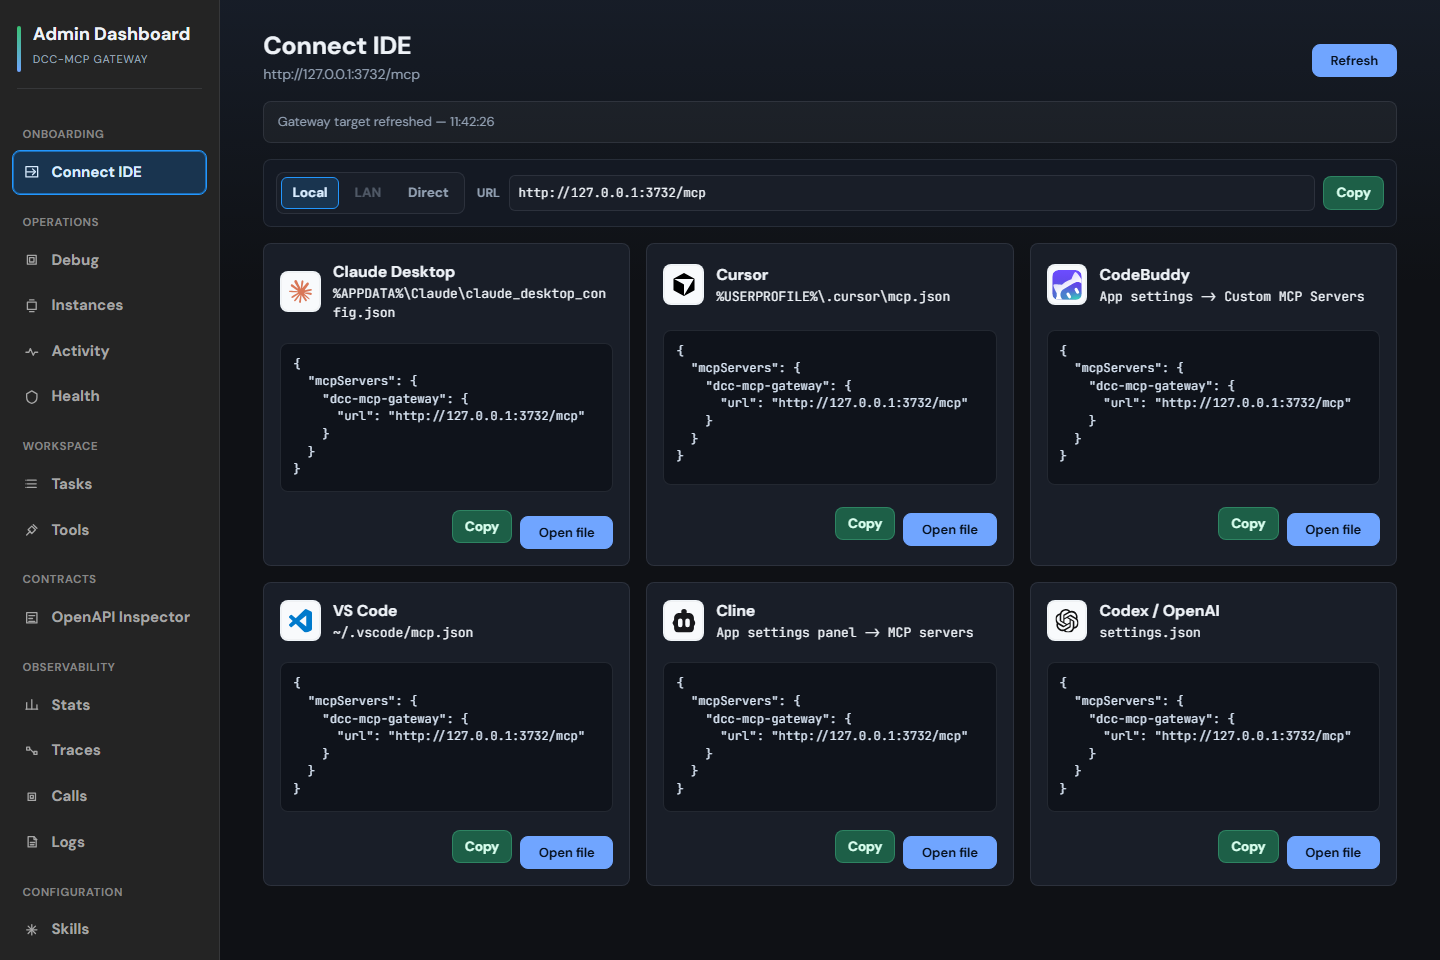
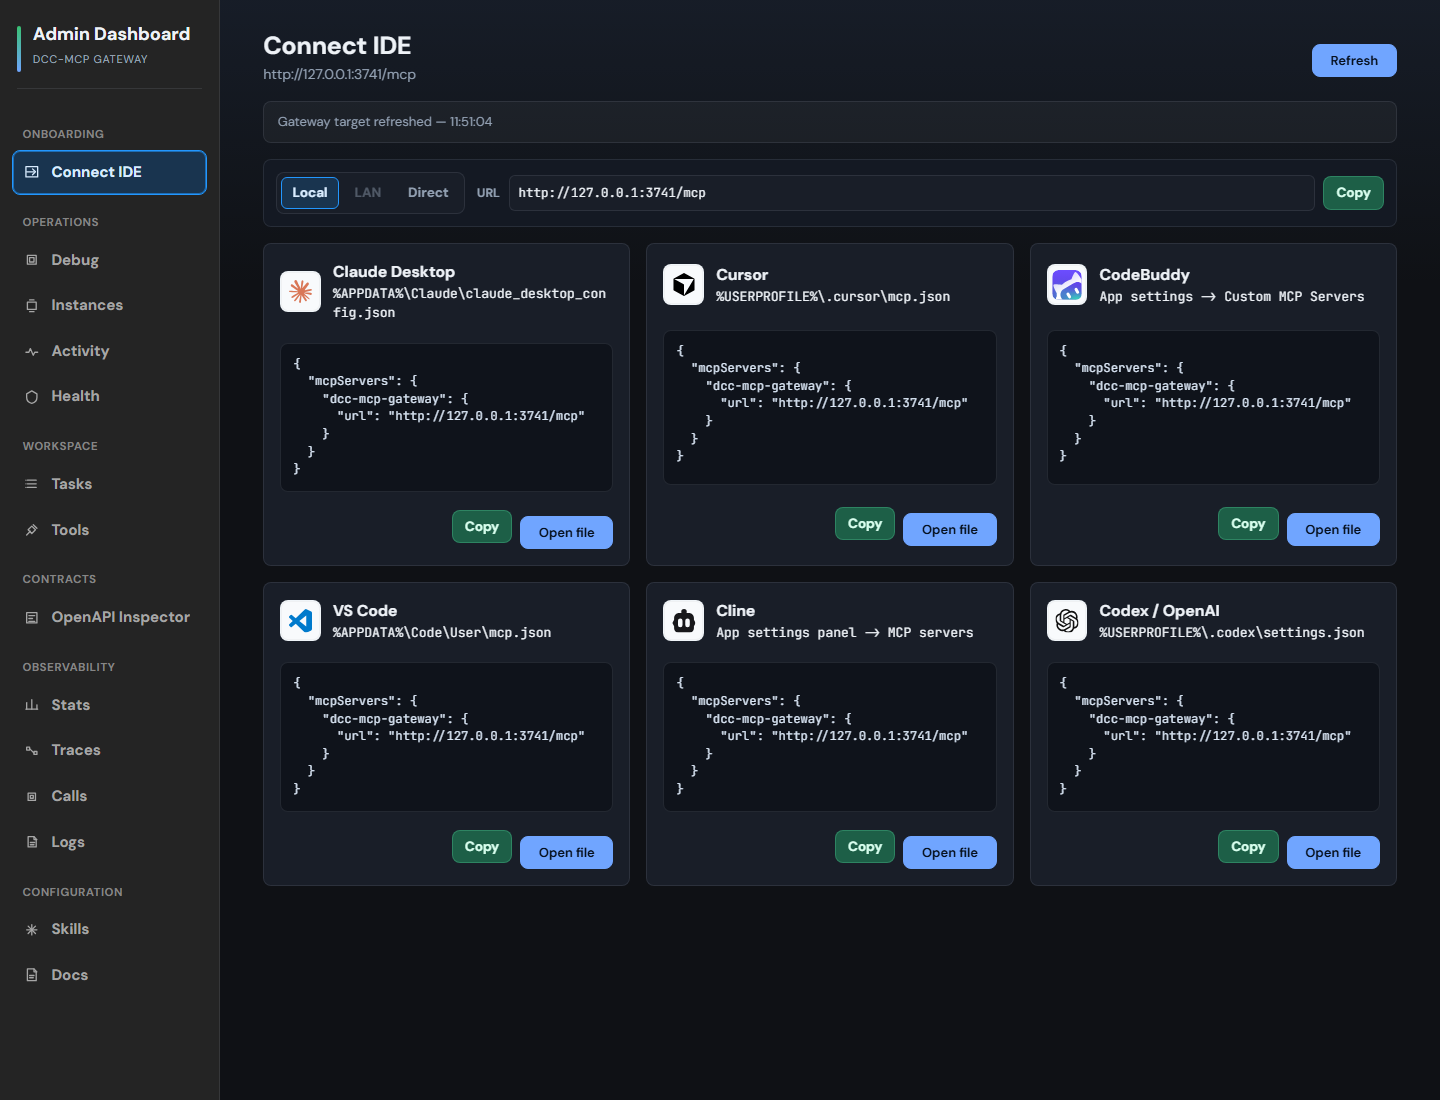
fix: show platform-specific ide config paths

diff --git a/admin-ui/src/App.tsx b/admin-ui/src/App.tsx
@@ -372,11 +372,12 @@ type SkillDetailPayload = {
 };
 
 type SetupUrlMode = 'local' | 'lan' | 'direct';
+type ClientPlatform = 'windows' | 'macos' | 'linux';
 
 type IdeTarget = {
   id: string;
   label: string;
-  configPath: string;
+  configPath: string | Record<ClientPlatform, string>;
   icon: string;
   build: (url: string) => unknown;
 };
@@ -559,14 +560,22 @@ const IDE_TARGETS: IdeTarget[] = [
   {
     id: 'claude',
     label: 'Claude Desktop',
-    configPath: '%APPDATA%\\Claude\\claude_desktop_config.json',
+    configPath: {
+      windows: '%APPDATA%\\Claude\\claude_desktop_config.json',
+      macos: '~/Library/Application Support/Claude/claude_desktop_config.json',
+      linux: '~/.config/Claude/claude_desktop_config.json',
+    },
     icon: claudeIcon,
     build: buildMcpServersConfig,
   },
   {
     id: 'cursor',
     label: 'Cursor',
-    configPath: '%USERPROFILE%\\.cursor\\mcp.json',
+    configPath: {
+      windows: '%USERPROFILE%\\.cursor\\mcp.json',
+      macos: '~/.cursor/mcp.json',
+      linux: '~/.cursor/mcp.json',
+    },
     icon: cursorIcon,
     build: buildMcpServersConfig,
   },
@@ -580,7 +589,11 @@ const IDE_TARGETS: IdeTarget[] = [
   {
     id: 'vscode',
     label: 'VS Code',
-    configPath: '~/.vscode/mcp.json',
+    configPath: {
+      windows: '%APPDATA%\\Code\\User\\mcp.json',
+      macos: '~/Library/Application Support/Code/User/mcp.json',
+      linux: '~/.config/Code/User/mcp.json',
+    },
     icon: vscodeIcon,
     build: buildMcpServersConfig,
   },
@@ -594,7 +607,11 @@ const IDE_TARGETS: IdeTarget[] = [
   {
     id: 'codex',
     label: 'Codex / OpenAI',
-    configPath: 'settings.json',
+    configPath: {
+      windows: '%USERPROFILE%\\.codex\\settings.json',
+      macos: '~/.codex/settings.json',
+      linux: '~/.codex/settings.json',
+    },
     icon: openaiIcon,
     build: buildMcpServersConfig,
   },
@@ -777,6 +794,36 @@ function lanGatewayMcpUrl(): string | null {
 
 function workerSetupLabel(worker: WorkerRow): string {
   return `${worker.display_name || worker.dcc_type} (${worker.instance_id.slice(0, 8)})`;
+}
+
+function detectClientPlatform(): ClientPlatform {
+  const nav = navigator as Navigator & { userAgentData?: { platform?: string } };
+  const primaryPlatform = `${nav.userAgentData?.platform ?? navigator.platform ?? ''}`.toLowerCase();
+  if (primaryPlatform.includes('win')) {
+    return 'windows';
+  }
+  if (primaryPlatform.includes('mac')) {
+    return 'macos';
+  }
+  if (primaryPlatform.includes('linux') || primaryPlatform.includes('x11')) {
+    return 'linux';
+  }
+
+  const userAgent = `${navigator.userAgent ?? ''}`.toLowerCase();
+  if (userAgent.includes('win')) {
+    return 'windows';
+  }
+  if (userAgent.includes('mac')) {
+    return 'macos';
+  }
+  return 'linux';
+}
+
+function configPathForTarget(target: IdeTarget, platform: ClientPlatform): string {
+  if (typeof target.configPath === 'string') {
+    return target.configPath;
+  }
+  return target.configPath[platform] ?? target.configPath.linux;
 }
 
 function ideConfigText(target: IdeTarget, url: string): string {
@@ -1841,6 +1888,7 @@ function App() {
   const [workers, setWorkers] = useState<WorkerRow[]>([]);
   const [workerSummary, setWorkerSummary] = useState<WorkerSummary>({ live: 0, stale: 0, unhealthy: 0 });
   const [setupUrlMode, setSetupUrlMode] = useState<SetupUrlMode>('local');
+  const [clientPlatform] = useState<ClientPlatform>(() => detectClientPlatform());
   const [directInstanceId, setDirectInstanceId] = useState<string>('');
   const [logs, setLogs] = useState<LogRow[]>([]);
   const [skillPaths, setSkillPaths] = useState<SkillPathRow[]>([]);
@@ -2257,15 +2305,15 @@ function App() {
     }
   }, []);
 
-  const openConfigLocation = useCallback((target: IdeTarget) => {
-    const href = configPathFileUrl(target.configPath);
+  const openConfigLocation = useCallback((target: IdeTarget, configPath: string) => {
+    const href = configPathFileUrl(configPath);
     if (href) {
       window.open(href, '_blank', 'noopener,noreferrer');
       setCopiedNotice(`Opened ${target.label} config path`);
       window.setTimeout(() => setCopiedNotice(''), 1800);
       return;
     }
-    void copyText(target.configPath, `${target.label} config path`);
+    void copyText(configPath, `${target.label} config path`);
   }, [copyText]);
 
   const copyIssueReport = useCallback(async (requestId: string) => {
@@ -2817,13 +2865,14 @@ function App() {
             <div className="ide-grid">
               {IDE_TARGETS.map((target) => {
                 const config = ideConfigText(target, setupMcpUrl);
+                const configPath = configPathForTarget(target, clientPlatform);
                 return (
                   <article key={target.id} className="ide-card">
                     <div className="ide-card-head">
                       <IdeIcon target={target} />
                       <div>
                         <h3>{target.label}</h3>
-                        <p className="mono-path">{target.configPath}</p>
+                        <p className="mono-path">{configPath}</p>
                       </div>
                     </div>
                     <pre className="ide-config-preview">{config}</pre>
@@ -2831,7 +2880,7 @@ function App() {
                       <button className="copy-btn" type="button" onClick={() => copyText(config, `${target.label} config`)}>
                         Copy
                       </button>
-                      <button className="refresh-btn" type="button" onClick={() => openConfigLocation(target)}>
+                      <button className="refresh-btn" type="button" onClick={() => openConfigLocation(target, configPath)}>
                         Open file
                       </button>
                     </div>

diff --git a/admin-ui/tests/admin.spec.ts b/admin-ui/tests/admin.spec.ts
@@ -349,6 +349,28 @@ test.describe('Admin Page', () => {
     await expect(page.locator('.health-panel')).toContainText('0.17.7');
   });
 
+  test('shows platform-specific IDE config paths', async ({ page }) => {
+    await page.addInitScript(() => {
+      Object.defineProperty(navigator, 'userAgentData', {
+        configurable: true,
+        get: () => ({ platform: 'macOS' }),
+      });
+      Object.defineProperty(navigator, 'platform', {
+        configurable: true,
+        get: () => 'MacIntel',
+      });
+    });
+
+    await page.goto('/admin/');
+
+    const setup = page.locator('.setup-panel');
+    await expect(setup).toContainText('~/Library/Application Support/Claude/claude_desktop_config.json');
+    await expect(setup).toContainText('~/.cursor/mcp.json');
+    await expect(setup).toContainText('~/Library/Application Support/Code/User/mcp.json');
+    await expect(setup).toContainText('~/.codex/settings.json');
+    await expect(setup).not.toContainText('%APPDATA%\\Claude');
+  });
+
   test('switches to instances, renders DCC cards, and filters rows', async ({ page }) => {
     await page.goto('/admin/');
     await page.getByRole('navigation').getByRole('link', { name: 'Instances' }).click();

diff --git a/docs/guide/admin-ui.md b/docs/guide/admin-ui.md
@@ -78,7 +78,7 @@ operator workflows exposed by the embedded dashboard.
 
 The **Connect IDE** panel provides copyable MCP configuration snippets for
 Claude Desktop, Cursor, CodeBuddy, VS Code, Cline, and Codex / OpenAI, using
-the current gateway URL.
+the current gateway URL and platform-aware config paths.
 
 ![Admin Skills paths panel](../assets/admin-ui/admin-skills-paths.png)
 

diff --git a/docs/zh/guide/admin-ui.md b/docs/zh/guide/admin-ui.md
@@ -75,7 +75,7 @@ let config = GatewayConfig {
 
 ![Admin Connect IDE 面板](../../assets/admin-ui/admin-connect-ide.png)
 
-**Connect IDE** 面板会基于当前 gateway URL 生成 Claude Desktop、Cursor、CodeBuddy、VS Code、Cline 和 Codex / OpenAI 的 MCP 配置片段，方便直接复制到本地 IDE/Agent。
+**Connect IDE** 面板会基于当前 gateway URL 和当前平台的配置路径，生成 Claude Desktop、Cursor、CodeBuddy、VS Code、Cline 和 Codex / OpenAI 的 MCP 配置片段，方便直接复制到本地 IDE/Agent。
 
 ![Admin Skills 路径面板](../../assets/admin-ui/admin-skills-paths.png)
 